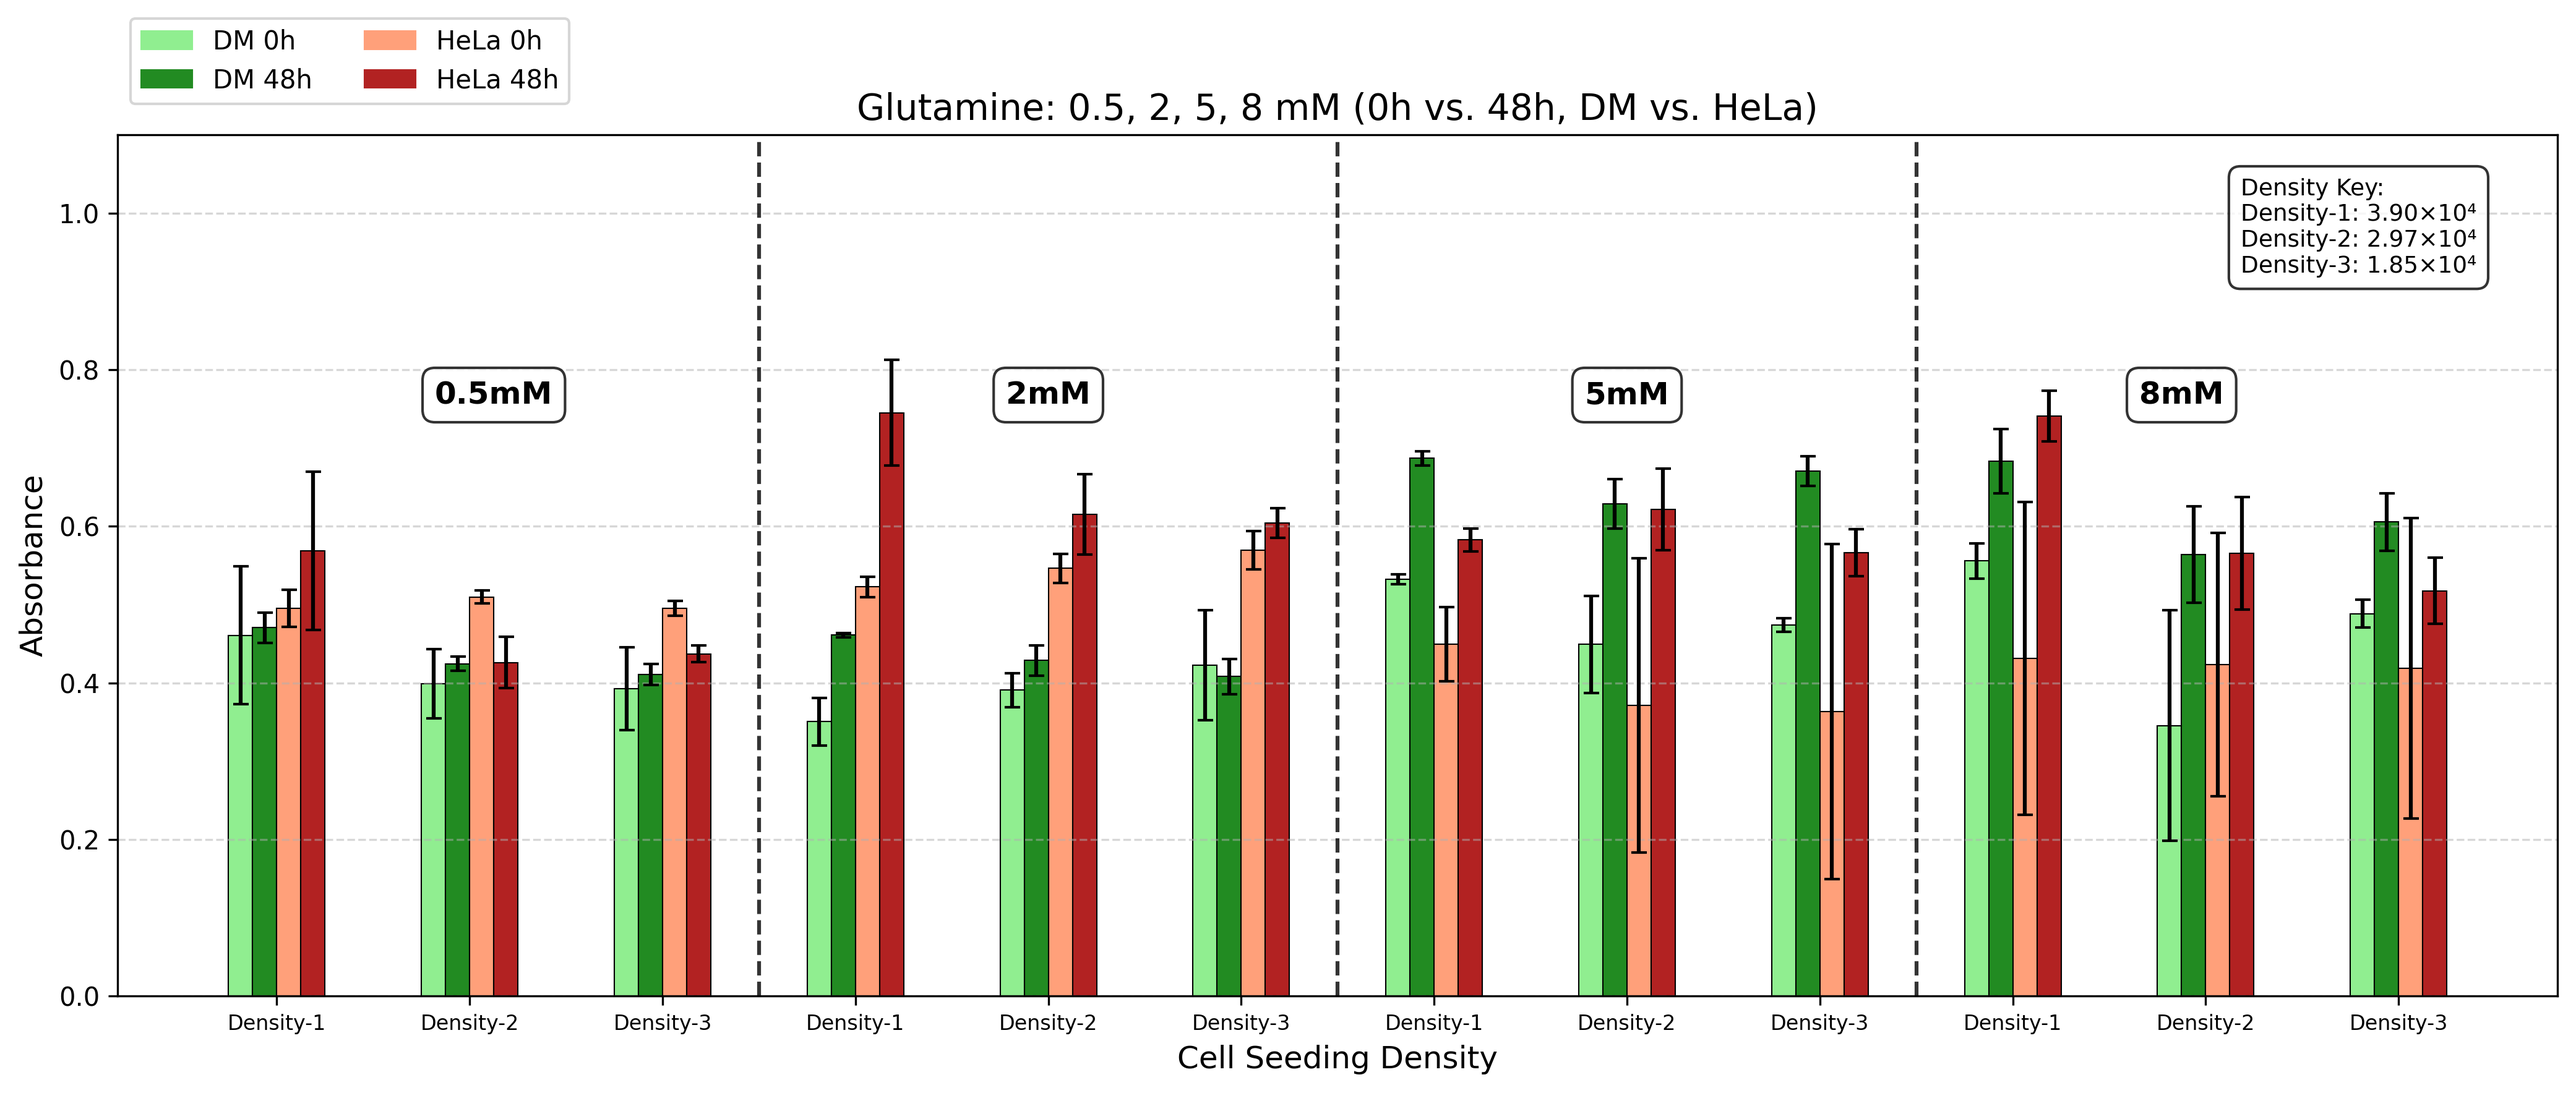
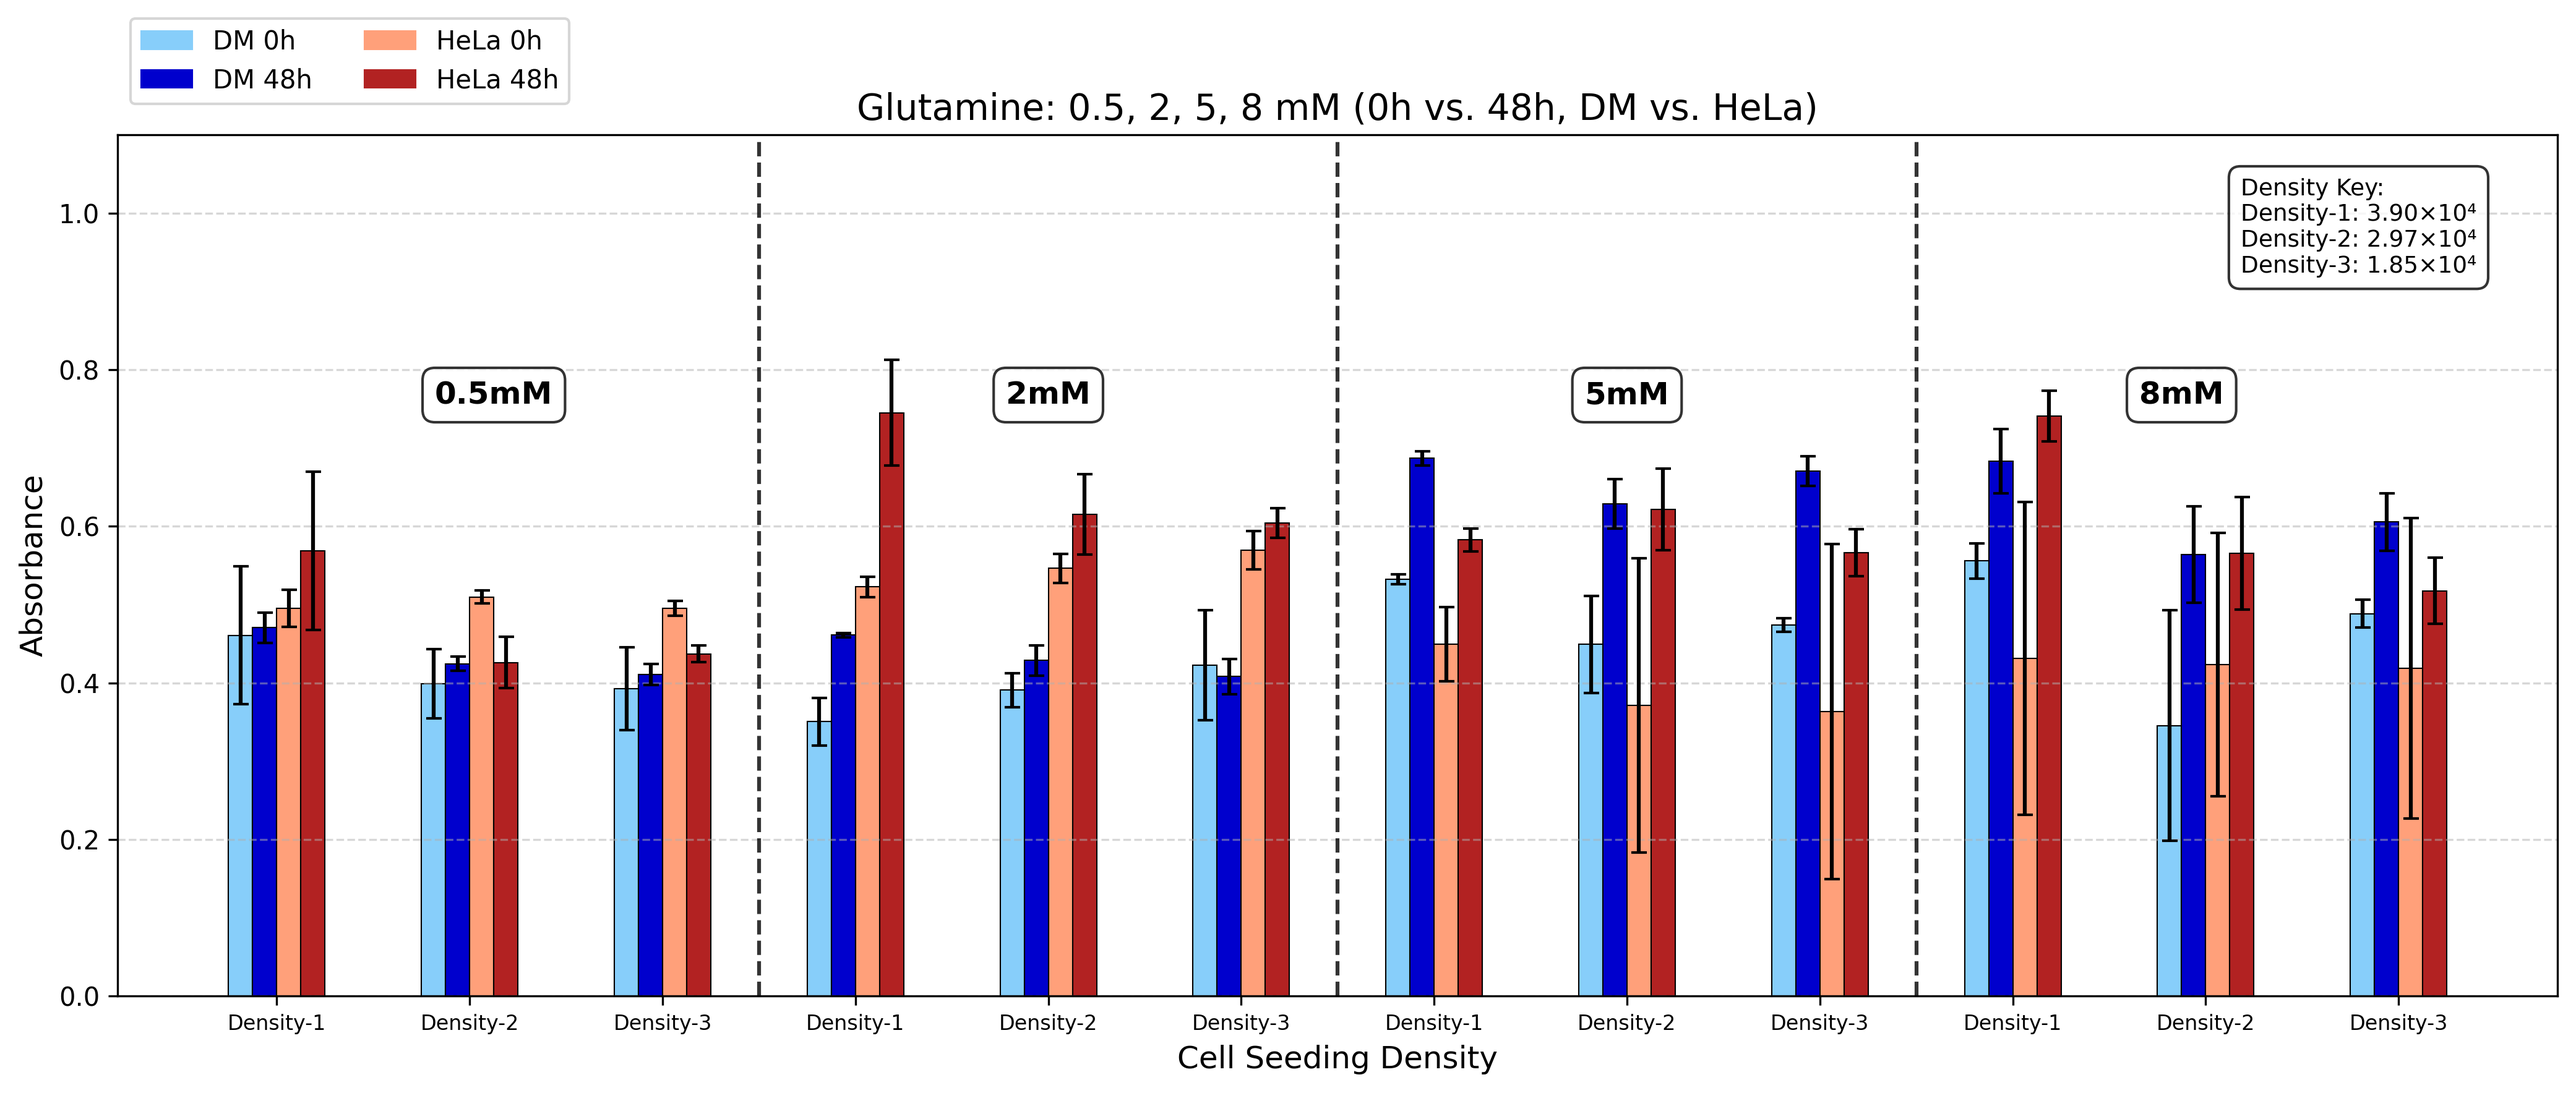
Minor colour scheme changes
Group asked for consistent colours..

diff --git a/Glut_Grp2.py b/Glut_Grp2.py
@@ -108,8 +108,8 @@ bar_width = 0.1
 group_spacing = 0.4
 
 colors = {
-    ('DM','0h'):    '#90EE90',  # Light green
-    ('DM','48h'):   '#228B22',  # Forest green
+    ('DM','0h'):    '#87CEFA',  # Light sky blue
+    ('DM','48h'):   '#0000CD',  # Medium blue
     ('HeLa','0h'):  '#FFA07A',  # Light salmon
     ('HeLa','48h'): '#B22222',  # Firebrick
 }
